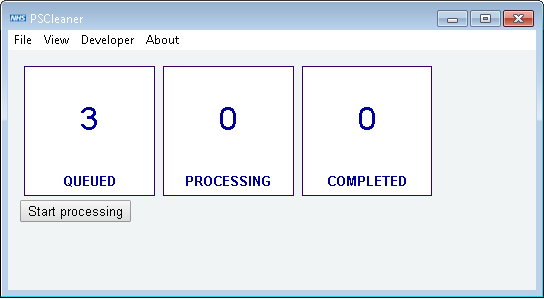
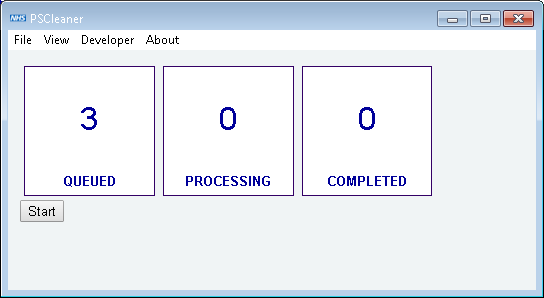
Additional images

diff --git a/static/settings.html b/static/settings.html
@@ -8,14 +8,14 @@
     content="default-src 'self'; img-src 'self' data:; style-src 'self' 'unsafe-inline'; script-src-elem 'self' 'unsafe-inline' es6: blob:;">
   <title>PSCleaner</title>
   <link rel="stylesheet" href="./css/shared.css">
-  <link rel="stylesheet" href="./css/preferences.css">
+  <link rel="stylesheet" href="./css/settings.css">
   <script type="module" src="es6://lib/web-components/dist/web-components/web-components.esm.js"></script>
 </head>
 <body>
   <nel-network-connection>
     <div class="network"><span class="message">Application is offline</span></div>
   </nel-network-connection>
-  <h2><a href="./index.html">Home</a> &gt; Preferences</h2>
+  <h2><a href="./index.html">Home</a> &gt; Settings</h2>
   
   <h3>Folder locations</h3>
   <div class="panel border pad">
@@ -42,6 +42,6 @@
       <a href="#" id="btnTrainingDataSelection" class="btn-link">Change</a>
     </div>
   </div>  
-  <script src="./scripts/preferences.js"></script>
+  <script src="./scripts/settings.js"></script>
 </body>
 </html>

diff --git a/src/background/build-menu.ts b/src/background/build-menu.ts
@@ -29,8 +29,8 @@ export class AppMenu {
             case "showTrainingData":
               s.click = () => this.showTrainingData();
               break;
-            case "showPreferences":
-              s.click = () => this.showPreferences();
+            case "showSettings":
+              s.click = () => this.showSettings();
               break;
             case "close":
               s.click = () => this.close(); 
@@ -55,8 +55,8 @@ export class AppMenu {
     this._parent.mainWindow.loadURL(config.pages.get("entities"));
   }
 
-  public showPreferences(): void {
-    this._parent.mainWindow.loadURL(config.pages.get("preferences"));
+  public showSettings(): void {
+    this._parent.mainWindow.loadURL(config.pages.get("settings"));
   }
 
   public showTrainingData(): void {

diff --git a/static/index.html b/static/index.html
@@ -20,7 +20,7 @@
     <nel-status-badge id="statProcessing" data-count="0" label="processing" title="View processing folder">0</nel-status-badge>
     <nel-status-badge id="statComplete" data-count="0" label="completed" title="View export folder">0</nel-status-badge>
   </nel-item-collection>
-  <button id="btnProcessFiles" data-status="inactive">Start processing</button>
+  <button id="btnProcessFiles" data-status="inactive">Start</button>
   <progress id="stProcessFiles" max="100" value="0" hidden></progress>
   <script src="./scripts/index.js"></script>
 </body>

diff --git a/src/background/views.ts b/src/background/views.ts
@@ -10,7 +10,7 @@ const view: string = j(base, "static");
 const pages: Map<string, string> = new Map<string, string>();
 pages.set("entities", fileUrl(j(view, "entities.html")));
 pages.set("index", fileUrl(j(view, "index.html")));
-pages.set("preferences", fileUrl(j(view, "preferences.html")));
+pages.set("settings", fileUrl(j(view, "settings.html")));
 pages.set("training", fileUrl(j(view, "training.html")));
 
 export default {

diff --git a/static/scripts/settings.js b/static/scripts/settings.js
@@ -1,0 +1,2 @@
+const r = require("esm")(module);
+r(`${__dirname}/scripts/settings-esm.js`);
